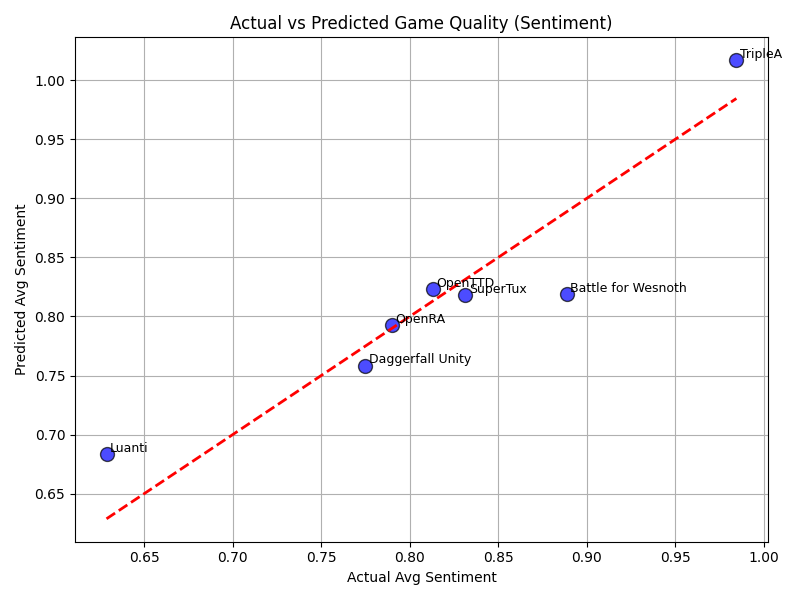
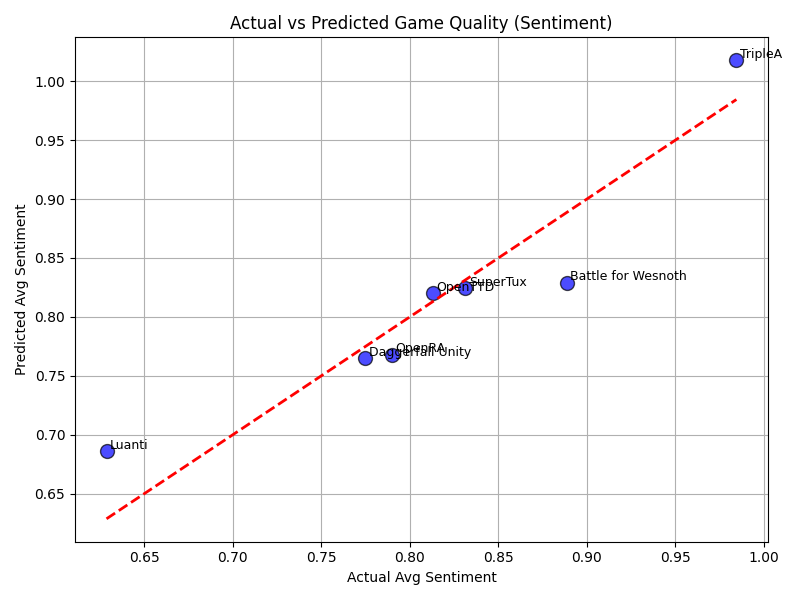
added feature as a inddependent

diff --git a/Regression.py b/Regression.py
@@ -14,9 +14,10 @@ merged = pd.merge(prs, sentimentSummary, left_on="Game Title", right_on="Title")
 
 merged["Bug_Ratio"] = merged["Bug Fix"] / merged["Total PRs"]
 merged["Refinement_Ratio"] = merged["Refinements"] / merged["Total PRs"]
+merged["Feature_Ratio"] = merged["Feature Addition"] / merged["Total PRs"]
 merged["Update_Frequency"] = np.log1p(merged["Total Releases"])
 
-x = merged[["Bug_Ratio", "Refinement_Ratio", "Update_Frequency"]]
+x = merged[["Bug_Ratio", "Refinement_Ratio", "Feature_Ratio", "Update_Frequency"]]
 y = merged["Avg_Positive_Sentiment"]
 
 scaler = StandardScaler()
@@ -46,7 +47,7 @@ plt.grid(True)
 plt.tight_layout()
 plt.savefig("tables/scatter_plot.png")
 
-features = ["Bug_Ratio", "Refinement_Ratio", "Update_Frequency"]
+features = ["Bug_Ratio", "Refinement_Ratio", "Feature_Ratio", "Update_Frequency"]
 for f in features:
     plt.figure(figsize=(6,4))
     plt.scatter(merged[f], merged["Avg_Positive_Sentiment"], color="blue", alpha=0.7, s=100, edgecolor="k")
